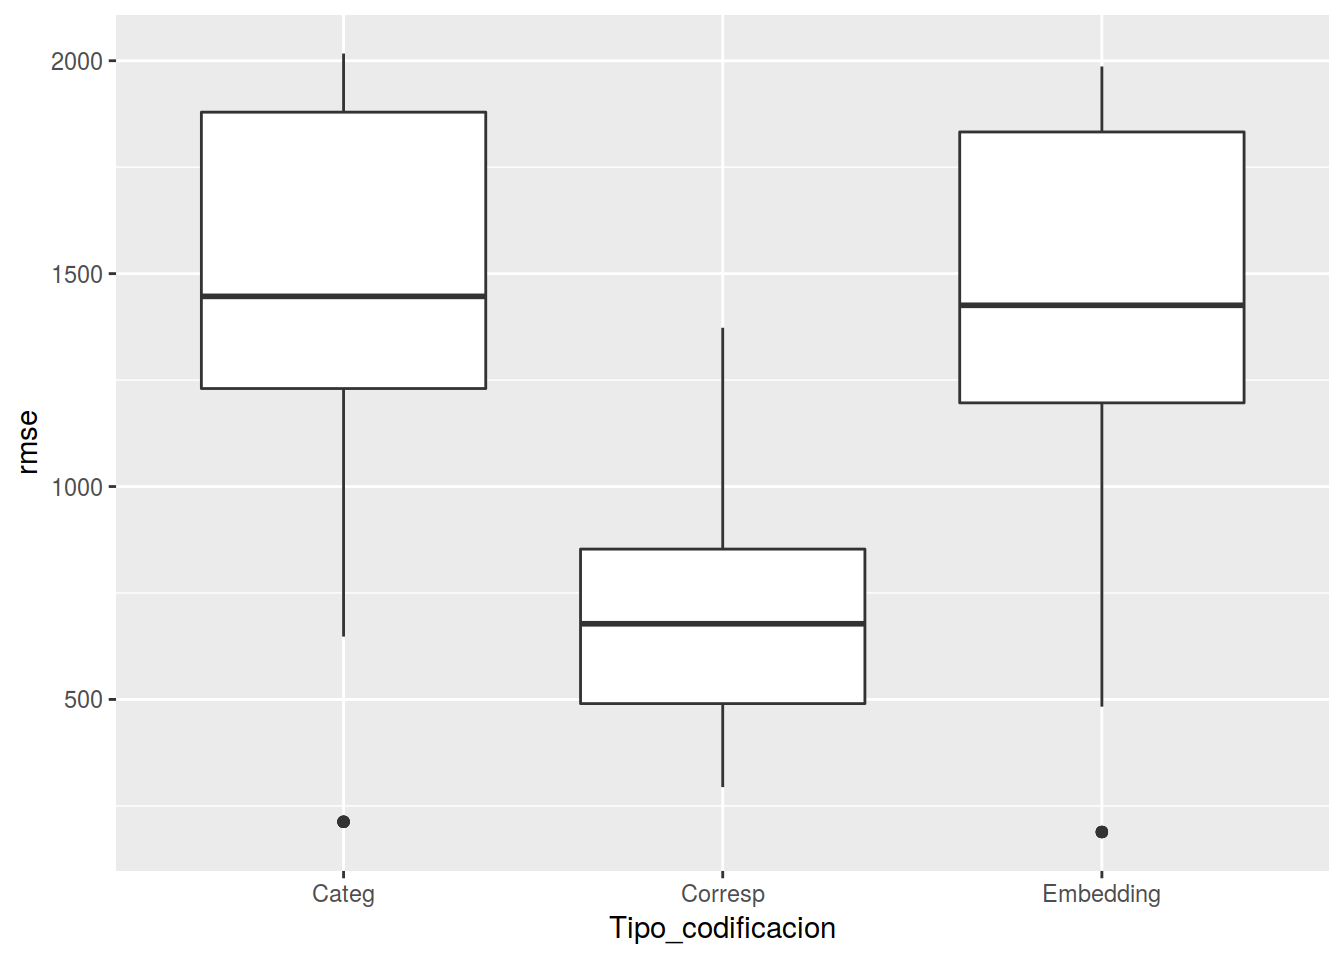
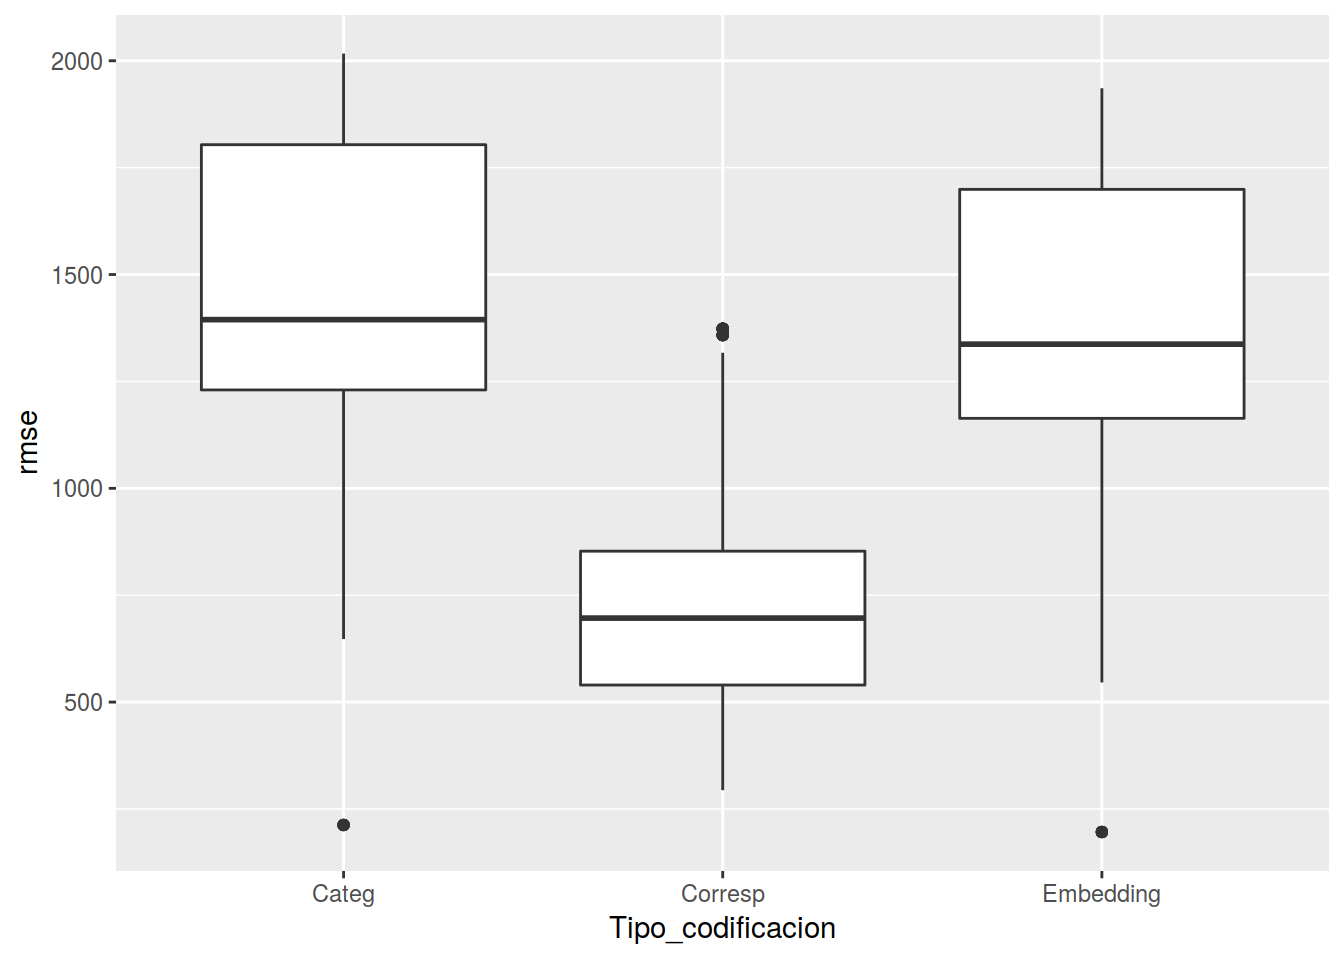
minor changes

diff --git a/content/post/2019-03-19-codificacion-de-variables-categoricas-iii.html b/content/post/2019-03-19-codificacion-de-variables-categoricas-iii.html
@@ -116,44 +116,55 @@ model &lt;- keras::keras_model(inputs = inp1, outputs = modelo_combinado)</code>
 ## Trainable params: 125
 ## Non-trainable params: 0
 ## ___________________________________________________________________________</code></pre>
-<pre class="r"><code>model %&gt;% deepviz::plot_model()</code></pre>
+<pre class="r"><code>model %&gt;% 
+  deepviz::plot_model()</code></pre>
 <div id="htmlwidget-2" style="width:672px;height:480px;" class="grViz html-widget"></div>
 <script type="application/json" data-for="htmlwidget-2">{"x":{"diagram":"digraph {\n\ngraph [layout = \"neato\",\n       outputorder = \"edgesfirst\",\n       bgcolor = \"white\"]\n\nnode [fontname = \"Helvetica\",\n      fontsize = \"10\",\n      shape = \"circle\",\n      fixedsize = \"true\",\n      width = \"0.5\",\n      style = \"filled\",\n      fillcolor = \"aliceblue\",\n      color = \"gray70\",\n      fontcolor = \"gray50\"]\n\nedge [fontname = \"Helvetica\",\n     fontsize = \"8\",\n     len = \"1.5\",\n     color = \"gray80\",\n     arrowsize = \"0.5\"]\n\n  \"1\" [label = \"inp_weekday\nInputLayer\n\", shape = \"rectangle\", fixedsize = \"FALSE\", fillcolor = \"#F0F8FF\", fontcolor = \"#000000\", pos = \"0,5!\"] \n  \"2\" [label = \"embedding_weekday\nEmbedding\n\", shape = \"rectangle\", fixedsize = \"FALSE\", fillcolor = \"#F0F8FF\", fontcolor = \"#000000\", pos = \"0,4!\"] \n  \"3\" [label = \"flatten_1\nFlatten\n\", shape = \"rectangle\", fixedsize = \"FALSE\", fillcolor = \"#F0F8FF\", fontcolor = \"#000000\", pos = \"0,3!\"] \n  \"4\" [label = \"dense_1\nDense\nrelu\", shape = \"rectangle\", fixedsize = \"FALSE\", fillcolor = \"#F0F8FF\", fontcolor = \"#000000\", pos = \"0,2!\"] \n  \"5\" [label = \"dense_2\nDense\nlinear\", shape = \"rectangle\", fixedsize = \"FALSE\", fillcolor = \"#F0F8FF\", fontcolor = \"#000000\", pos = \"0,1!\"] \n  \"1\"->\"2\" \n  \"2\"->\"3\" \n  \"3\"->\"4\" \n  \"4\"->\"5\" \n}","config":{"engine":"dot","options":null}},"evals":[],"jsHooks":[]}</script>
 <p>Compilamos el modelo, eligiendo que lo ajuste por gradiente descendente estocástico</p>
-<pre class="r"><code>model %&gt;% compile(loss = &quot;mean_squared_error&quot;, optimizer = &quot;sgd&quot;, metric=&quot;accuracy&quot;) </code></pre>
+<pre class="r"><code>model %&gt;%
+  compile(loss = &quot;mean_squared_error&quot;, optimizer = &quot;sgd&quot;, metric=&quot;accuracy&quot;) </code></pre>
 <p>Ajustamos el modelo</p>
 <pre class="r"><code>inputVariables &lt;- list(as.matrix(df$weekday))
 
-hist &lt;- model %&gt;% fit(x = inputVariables, y = as.matrix(df$ScaledUsers), epochs = 70, batch_size = 2)</code></pre>
+hist &lt;- model %&gt;%
+  fit(
+    x = inputVariables,
+    y = as.matrix(df$ScaledUsers),
+    epochs = 70,
+    batch_size = 2
+  )</code></pre>
 <p>Extraemos la capa de embeddings, y vemos las 3 dimensiones extraídas</p>
 <pre class="r"><code>layer &lt;- get_layer(model, &quot;embedding_weekday&quot;)
 embeddings_wday &lt;- data.frame(layer$get_weights()[[1]])
 embeddings_wday</code></pre>
-<pre><code>##            X1          X2          X3
-## 1  0.01007555  0.02195337 -0.04534636
-## 2 -0.25062287  0.05661171 -0.12071010
-## 3  0.14906402 -0.01725769  0.06761902
-## 4 -0.17800112  0.16719362 -0.06814378
-## 5  0.27284047 -0.14457269  0.10310559
-## 6  0.16464871 -0.06413224  0.07130165
-## 7  0.05259421 -0.01922366  0.02822346
-## 8 -0.33948791  0.26188615 -0.18658847</code></pre>
+<pre><code>##             X1          X2          X3
+## 1 -0.043044936 -0.03500011  0.01742882
+## 2  0.114643887 -0.07663260  0.21111749
+## 3 -0.107565761 -0.04164825 -0.08763187
+## 4  0.105061002 -0.06102847  0.20929545
+## 5 -0.117075324  0.12431101 -0.38657519
+## 6 -0.119295932  0.01848904 -0.10451434
+## 7 -0.002129603  0.03943805 -0.02335814
+## 8  0.251920283 -0.07531382  0.28962144</code></pre>
 <p>Juntamos con el dataset original</p>
 <pre class="r"><code>embeddings_wday$name &lt;- c(&quot;none&quot;, levels(lubridate::wday(df$date, label = T)))
 
 df$weekDayF &lt;- lubridate::wday(df$date, label = T)
 embeddings_wday$lookup &lt;- c(&quot;none&quot;, levels(df$weekDayF))
-df &lt;- df %&gt;% left_join( embeddings_wday, by= c(&quot;weekDayF&quot; = &quot;lookup&quot;))</code></pre>
+df &lt;- df %&gt;% 
+  left_join( embeddings_wday, by= c(&quot;weekDayF&quot; = &quot;lookup&quot;))</code></pre>
 <pre><code>## Warning: Column `weekDayF`/`lookup` joining factor and character vector,
 ## coercing into character vector</code></pre>
-<pre class="r"><code>df %&gt;% select(weekDayF, X1, X2, X3) %&gt;% head()</code></pre>
-<pre><code>##   weekDayF          X1          X2          X3
-## 1      Fri  0.05259421 -0.01922366  0.02822346
-## 2      Sat -0.33948791  0.26188615 -0.18658847
-## 3      Sun -0.25062287  0.05661171 -0.12071010
-## 4      Mon  0.14906402 -0.01725769  0.06761902
-## 5      Tue -0.17800112  0.16719362 -0.06814378
-## 6      Wed  0.27284047 -0.14457269  0.10310559</code></pre>
+<pre class="r"><code>df %&gt;% 
+  select(weekDayF, X1, X2, X3) %&gt;%
+  head()</code></pre>
+<pre><code>##   weekDayF           X1          X2          X3
+## 1      Fri -0.002129603  0.03943805 -0.02335814
+## 2      Sat  0.251920283 -0.07531382  0.28962144
+## 3      Sun  0.114643887 -0.07663260  0.21111749
+## 4      Mon -0.107565761 -0.04164825 -0.08763187
+## 5      Tue  0.105061002 -0.06102847  0.20929545
+## 6      Wed -0.117075324  0.12431101 -0.38657519</code></pre>
 <div id="codificacion-usando-analisis-de-correspondencias-simple" class="section level3">
 <h3>Codificación usando análisis de correspondencias simple</h3>
 <p>En el análisis de correspondencias clásico las variables han de ser categóricas, así que categorizamos el número de ciclistas que cruzan por Brooklyn en 5 niveles.</p>
@@ -183,18 +194,18 @@ df %&gt;%
   select_at(c(paste0(&quot;MCA_&quot;,1:3), paste0(&quot;X&quot;,1:3))) %&gt;% 
   DT::datatable(.)</code></pre>
 <div id="htmlwidget-3" style="width:100%;height:auto;" class="datatables html-widget"></div>
-<script type="application/json" data-for="htmlwidget-3">{"x":{"filter":"none","data":[["1","2","3","4","5","6","7","8","9","10","11","12","13","14","15","16","17","18","19","20","21","22","23","24","25","26","27","28","29","30"],[1.16775619176984,-0.969741640673681,0.259460502444066,-1.08415432429758,0.35837748829935,-0.302616841090448,0.848936092533866,0.465841992788705,-0.969741640673681,1.25235358039781,-0.793175445324963,-0.634515589654396,0.579724094412422,1.0293628290556,1.34818292829158,-0.678762761701066,1.43278031691955,-1.16670877118293,-0.717070036539746,-0.676150166948414,-0.226511432305231,1.34818292829158,-0.678762761701066,1.43278031691955,-1.16670877118293,-0.343536710681781,-0.676150166948414,0.147021893552734,0.465841992788705,-1.05229608755903],[0.153860547390106,1.53639059967315,1.47795465296831,0.736185586973788,0.598912848979276,-0.969167904956931,-0.110872541124429,-0.156431365829396,1.53639059967315,0.792678464360803,-0.259382514853225,1.28418903758679,-1.09347385378794,-0.545470403174944,-0.280737314660408,0.540822497846133,0.358080602310288,-0.813710883438744,-0.265707432825745,-1.52349627354245,-0.97549282292945,-0.280737314660408,0.540822497846133,0.358080602310288,-0.813710883438744,0.288620935759774,-1.52349627354245,-0.421164454343931,-0.156431365829396,-0.0135058707393863],[-0.711997623323235,-0.0279940210586293,1.23175626104699,0.690047192382899,0.052809600761121,-0.540546759714443,-0.0186105673760249,-1.57146510754479,-0.0279940210586283,0.932049961308335,-0.469126591577309,0.352515900499774,0.541992321304533,0.204461029421397,-0.488926026525813,-1.18716780501884,1.15512155810576,0.752516045146827,0.414984753263702,0.681095877009693,0.343564585126556,-0.488926026525813,-1.18716780501884,1.15512155810576,0.752516045146827,-0.806657883460433,0.681095877009693,-0.87807805159758,-1.57146510754479,0.0344748317053],[0.0525942072272301,-0.339487910270691,-0.250622868537903,0.149064019322395,-0.178001120686531,0.272840470075607,0.164648711681366,0.0525942072272301,-0.339487910270691,-0.250622868537903,0.149064019322395,-0.178001120686531,0.272840470075607,0.164648711681366,0.0525942072272301,-0.339487910270691,-0.250622868537903,0.149064019322395,-0.178001120686531,0.272840470075607,0.164648711681366,0.0525942072272301,-0.339487910270691,-0.250622868537903,0.149064019322395,-0.178001120686531,0.272840470075607,0.164648711681366,0.0525942072272301,-0.339487910270691],[-0.0192236602306366,0.261886149644852,0.0566117092967033,-0.0172576922923326,0.167193621397018,-0.14457269012928,-0.0641322433948517,-0.0192236602306366,0.261886149644852,0.0566117092967033,-0.0172576922923326,0.167193621397018,-0.14457269012928,-0.0641322433948517,-0.0192236602306366,0.261886149644852,0.0566117092967033,-0.0172576922923326,0.167193621397018,-0.14457269012928,-0.0641322433948517,-0.0192236602306366,0.261886149644852,0.0566117092967033,-0.0172576922923326,0.167193621397018,-0.14457269012928,-0.0641322433948517,-0.0192236602306366,0.261886149644852],[0.0282234586775303,-0.18658846616745,-0.120710104703903,0.0676190182566643,-0.0681437775492668,0.103105589747429,0.0713016539812088,0.0282234586775303,-0.18658846616745,-0.120710104703903,0.0676190182566643,-0.0681437775492668,0.103105589747429,0.0713016539812088,0.0282234586775303,-0.18658846616745,-0.120710104703903,0.0676190182566643,-0.0681437775492668,0.103105589747429,0.0713016539812088,0.0282234586775303,-0.18658846616745,-0.120710104703903,0.0676190182566643,-0.0681437775492668,0.103105589747429,0.0713016539812088,0.0282234586775303,-0.18658846616745]],"container":"<table class=\"display\">\n  <thead>\n    <tr>\n      <th> <\/th>\n      <th>MCA_1<\/th>\n      <th>MCA_2<\/th>\n      <th>MCA_3<\/th>\n      <th>X1<\/th>\n      <th>X2<\/th>\n      <th>X3<\/th>\n    <\/tr>\n  <\/thead>\n<\/table>","options":{"columnDefs":[{"className":"dt-right","targets":[1,2,3,4,5,6]},{"orderable":false,"targets":0}],"order":[],"autoWidth":false,"orderClasses":false}},"evals":[],"jsHooks":[]}</script>
+<script type="application/json" data-for="htmlwidget-3">{"x":{"filter":"none","data":[["1","2","3","4","5","6","7","8","9","10","11","12","13","14","15","16","17","18","19","20","21","22","23","24","25","26","27","28","29","30"],[1.16775619176984,-0.969741640673681,0.259460502444066,-1.08415432429758,0.35837748829935,-0.302616841090448,0.848936092533866,0.465841992788705,-0.969741640673681,1.25235358039781,-0.793175445324963,-0.634515589654396,0.579724094412422,1.0293628290556,1.34818292829158,-0.678762761701066,1.43278031691955,-1.16670877118293,-0.717070036539746,-0.676150166948414,-0.226511432305231,1.34818292829158,-0.678762761701066,1.43278031691955,-1.16670877118293,-0.343536710681781,-0.676150166948414,0.147021893552734,0.465841992788705,-1.05229608755903],[0.153860547390106,1.53639059967315,1.47795465296831,0.736185586973788,0.598912848979276,-0.969167904956931,-0.110872541124429,-0.156431365829396,1.53639059967315,0.792678464360803,-0.259382514853225,1.28418903758679,-1.09347385378794,-0.545470403174944,-0.280737314660408,0.540822497846133,0.358080602310288,-0.813710883438744,-0.265707432825745,-1.52349627354245,-0.97549282292945,-0.280737314660408,0.540822497846133,0.358080602310288,-0.813710883438744,0.288620935759774,-1.52349627354245,-0.421164454343931,-0.156431365829396,-0.0135058707393863],[-0.711997623323235,-0.0279940210586293,1.23175626104699,0.690047192382899,0.052809600761121,-0.540546759714443,-0.0186105673760249,-1.57146510754479,-0.0279940210586283,0.932049961308335,-0.469126591577309,0.352515900499774,0.541992321304533,0.204461029421397,-0.488926026525813,-1.18716780501884,1.15512155810576,0.752516045146827,0.414984753263702,0.681095877009693,0.343564585126556,-0.488926026525813,-1.18716780501884,1.15512155810576,0.752516045146827,-0.806657883460433,0.681095877009693,-0.87807805159758,-1.57146510754479,0.0344748317053],[-0.00212960341013968,0.251920282840729,0.114643886685371,-0.107565760612488,0.105061002075672,-0.117075324058533,-0.119295932352543,-0.00212960341013968,0.251920282840729,0.114643886685371,-0.107565760612488,0.105061002075672,-0.117075324058533,-0.119295932352543,-0.00212960341013968,0.251920282840729,0.114643886685371,-0.107565760612488,0.105061002075672,-0.117075324058533,-0.119295932352543,-0.00212960341013968,0.251920282840729,0.114643886685371,-0.107565760612488,0.105061002075672,-0.117075324058533,-0.119295932352543,-0.00212960341013968,0.251920282840729],[0.0394380502402782,-0.0753138214349747,-0.0766326040029526,-0.0416482500731945,-0.061028465628624,0.124311007559299,0.0184890367090702,0.0394380502402782,-0.0753138214349747,-0.0766326040029526,-0.0416482500731945,-0.061028465628624,0.124311007559299,0.0184890367090702,0.0394380502402782,-0.0753138214349747,-0.0766326040029526,-0.0416482500731945,-0.061028465628624,0.124311007559299,0.0184890367090702,0.0394380502402782,-0.0753138214349747,-0.0766326040029526,-0.0416482500731945,-0.061028465628624,0.124311007559299,0.0184890367090702,0.0394380502402782,-0.0753138214349747],[-0.0233581364154816,0.289621442556381,0.21111749112606,-0.0876318737864494,0.209295451641083,-0.386575192213058,-0.104514338076115,-0.0233581364154816,0.289621442556381,0.21111749112606,-0.0876318737864494,0.209295451641083,-0.386575192213058,-0.104514338076115,-0.0233581364154816,0.289621442556381,0.21111749112606,-0.0876318737864494,0.209295451641083,-0.386575192213058,-0.104514338076115,-0.0233581364154816,0.289621442556381,0.21111749112606,-0.0876318737864494,0.209295451641083,-0.386575192213058,-0.104514338076115,-0.0233581364154816,0.289621442556381]],"container":"<table class=\"display\">\n  <thead>\n    <tr>\n      <th> <\/th>\n      <th>MCA_1<\/th>\n      <th>MCA_2<\/th>\n      <th>MCA_3<\/th>\n      <th>X1<\/th>\n      <th>X2<\/th>\n      <th>X3<\/th>\n    <\/tr>\n  <\/thead>\n<\/table>","options":{"columnDefs":[{"className":"dt-right","targets":[1,2,3,4,5,6]},{"orderable":false,"targets":0}],"order":[],"autoWidth":false,"orderClasses":false}},"evals":[],"jsHooks":[]}</script>
 <p>Veamos si están correlacionadas ambas codificaciones.</p>
 <pre class="r"><code>correlaciones &lt;- cor(df[,c(paste0(&quot;X&quot;,1:3),paste0(&quot;MCA_&quot;,1:3))])
 
 round(correlaciones, 2)</code></pre>
 <pre><code>##          X1    X2    X3 MCA_1 MCA_2 MCA_3
-## X1     1.00 -0.93  0.99  0.04 -0.81  0.00
-## X2    -0.93  1.00 -0.92 -0.31  0.75 -0.15
-## X3     0.99 -0.92  1.00  0.09 -0.78  0.00
-## MCA_1  0.04 -0.31  0.09  1.00  0.00  0.00
-## MCA_2 -0.81  0.75 -0.78  0.00  1.00  0.00
-## MCA_3  0.00 -0.15  0.00  0.00  0.00  1.00</code></pre>
+## X1     1.00 -0.71  0.90 -0.10  0.75 -0.12
+## X2    -0.71  1.00 -0.91  0.18 -0.76 -0.16
+## X3     0.90 -0.91  1.00 -0.02  0.83 -0.05
+## MCA_1 -0.10  0.18 -0.02  1.00  0.00  0.00
+## MCA_2  0.75 -0.76  0.83  0.00  1.00  0.00
+## MCA_3 -0.12 -0.16 -0.05  0.00  0.00  1.00</code></pre>
 </div>
 </div>
 <div id="modelos" class="section level2">
